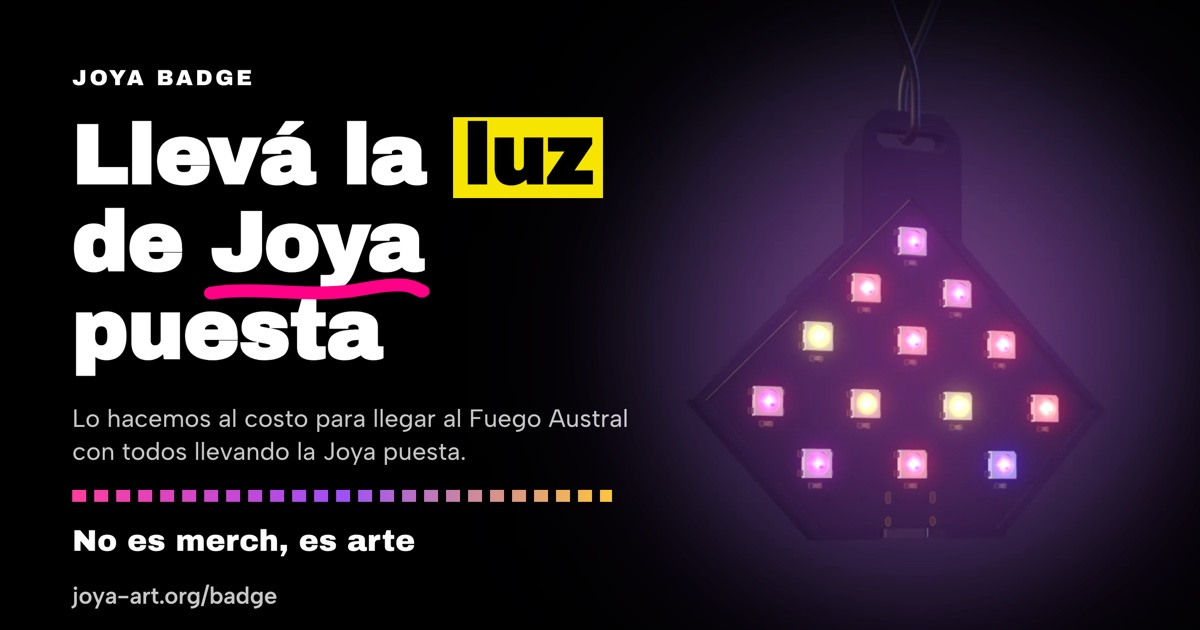
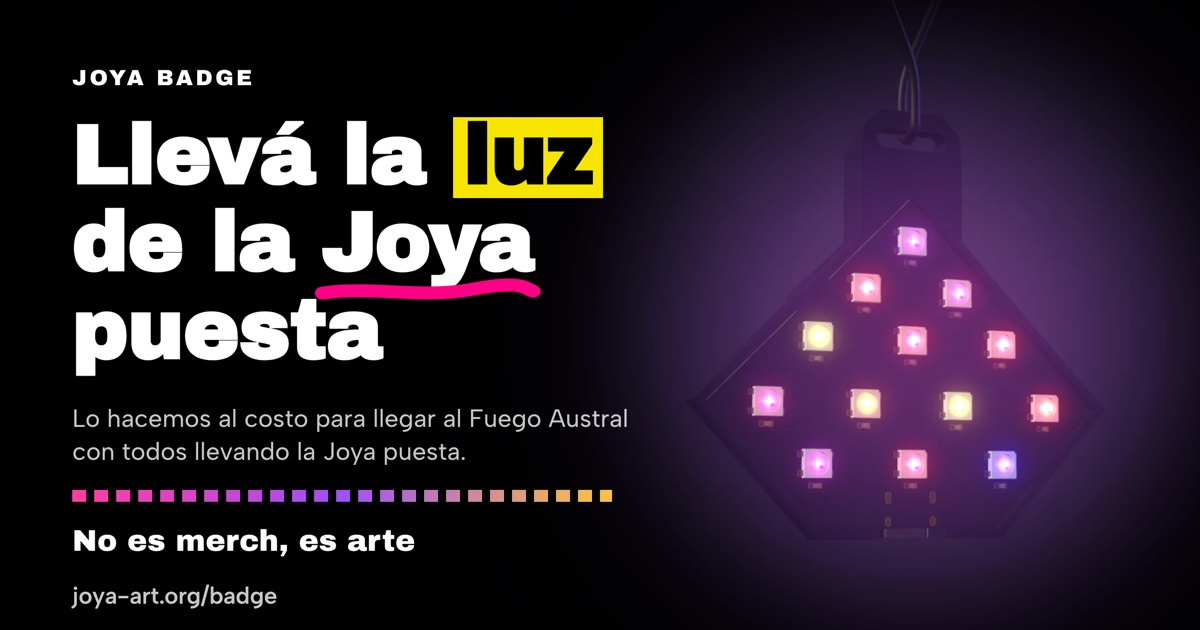
fix: /badge title says "la luz de la Joya"
Ale asked to call the piece "la Joya": the hero title, its English twin, the
share image (v4) and its alt text now carry the article where Joya means the
art piece. "Lo que pone Joya" and the Sheet line keep Joya as the group.

Claude-Session: https://claude.ai/code/session_01HbL6EQ7AukU2xd4DejWV14

Changed region(s): [[0.1542, 0.3317, 0.4625, 0.4825]]

diff --git a/badge.html b/badge.html
@@ -13,12 +13,12 @@
   <meta property="og:type" content="website">
   <meta property="og:description" content="El Joya Badge: 13 luces LED y 12 animaciones que manejás desde el celular. No es merch, es arte: lo hacemos al costo para llegar al Fuego Austral con todos llevando la Joya puesta.">
   <meta name="twitter:description" content="El Joya Badge: 13 luces LED y 12 animaciones que manejás desde el celular. No es merch, es arte: lo hacemos al costo para llegar al Fuego Austral con todos llevando la Joya puesta.">
-  <meta property="og:image" content="https://joya-art.org/assets/img/badge/og-badge-es.jpg?v=3">
+  <meta property="og:image" content="https://joya-art.org/assets/img/badge/og-badge-es.jpg?v=4">
   <meta property="og:image:width" content="1200">
   <meta property="og:image:height" content="630">
-  <meta property="og:image:alt" content="Joya Badge: Llevá la luz de Joya puesta. Lo hacemos al costo para llegar al Fuego Austral con todos llevando la Joya puesta. No es merch, es arte.">
+  <meta property="og:image:alt" content="Joya Badge: Llevá la luz de la Joya puesta. Lo hacemos al costo para llegar al Fuego Austral con todos llevando la Joya puesta. No es merch, es arte.">
   <meta name="twitter:title" content="Badge — Joya">
-  <meta name="twitter:image" content="https://joya-art.org/assets/img/badge/og-badge-es.jpg?v=3">
+  <meta name="twitter:image" content="https://joya-art.org/assets/img/badge/og-badge-es.jpg?v=4">
   <meta name="twitter:url" content="https://joya-art.org/badge">
   <meta name="twitter:card" content="summary_large_image">
   <link rel="preload" href="/assets/fonts/archivo-black-latin.woff2" as="font" type="font/woff2" crossorigin>
@@ -58,7 +58,7 @@
     <div class="bdg-hero">
       <div class="bdg-hero__text">
         <p class="bdg-kicker t-small">Joya Badge</p>
-        <div class="text bdg-hero__titlebox"><h1 class="bdg-hero__title" data-i18n-marked="hero.title">Llevá la <span class="hl" data-shape="marker" data-draw>luz</span> de <span class="hl" data-shape="underlineCurve" data-draw>Joya</span> puesta</h1></div>
+        <div class="text bdg-hero__titlebox"><h1 class="bdg-hero__title" data-i18n-marked="hero.title">Llevá la <span class="hl" data-shape="marker" data-draw>luz</span> de la <span class="hl" data-shape="underlineCurve" data-draw>Joya</span> puesta</h1></div>
         <p class="t-large" data-i18n="hero.lead">Un badge con 13 luces LED y 12 animaciones que manejás desde el celular. No es merch, es arte: queremos llegar al Fuego Austral con todos llevando la Joya puesta. Va al costo: tu aporte cubre la placa, la batería y la carcasa de tu badge, y nadie gana plata con esto.</p>
         <a class="bdg-btn" href="#pedido" data-i18n="hero.cta">Quiero sumarme</a>
       </div>

diff --git a/assets/js/badge.js b/assets/js/badge.js
@@ -63,7 +63,7 @@
     es: {
       'meta.title': 'Badge — Joya',
       'draft.banner': 'Borrador: los medios de pago todavía no están confirmados.',
-      'hero.title': 'Llevá la *luz* de _Joya_\u00a0puesta',
+      'hero.title': 'Llevá la *luz* de la _Joya_\u00a0puesta',
       'hero.lead': 'Un badge con 13 luces LED y 12 animaciones que manejás desde el celular. No es merch, es arte: queremos llegar al Fuego Austral con todos llevando la Joya puesta. Va al costo: tu aporte cubre la placa, la batería y la carcasa de tu badge, y nadie gana plata con esto.',
       'hero.cta': 'Quiero sumarme',
       'hero.caption': 'Modelo 3D del badge terminado. La carcasa todavía está en pruebas.',
@@ -239,7 +239,7 @@
     en: {
       'meta.title': 'Badge — Joya',
       'draft.banner': 'Draft: payment methods are not confirmed yet.',
-      'hero.title': 'Wear the *light* of _Joya_',
+      'hero.title': 'Wear the *light* of the _Joya_',
       'hero.lead': 'A badge with 13 LED lights and 12 animations you control from your phone. It is not merch, it is art: we want to get to Fuego Austral with everyone wearing the Joya. It goes at cost: your contribution covers the board, the battery and the shell of your badge, and nobody makes money from it.',
       'hero.cta': 'Count me in',
       'hero.caption': '3D model of the finished badge. The shell is still being tested.',
